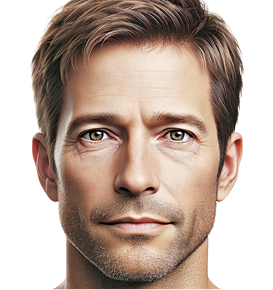
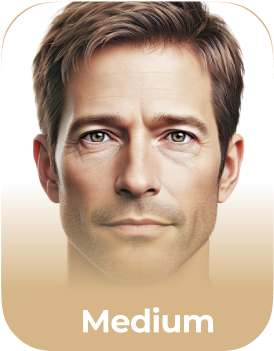
reason screen add

diff --git a/src/Components/Pages/Reason_screen.jsx b/src/Components/Pages/Reason_screen.jsx
@@ -1,0 +1,48 @@
+import React, { useState } from "react";
+import Progress_tracker from "../Common/Progress_tracker";
+import { Link } from "react-router-dom";
+import ten_select_uppr_vector from "../../assets/Images/svg/ten_select_uppr_vector.svg"
+import age_screen_vector_down from "../../assets/Images/svg/ten_select_bottom_vector.svg"
+import { Reason_screen_data } from "../Common/Helper";
+
+const Reason_screen = () => {
+  const [activeIndex, setActiveIndex] = useState(null); // Track selected item
+
+  const handleClick = (index) => {
+    setActiveIndex(index); // Set the active index
+
+  };
+
+  return (
+    <div className="px-[20px] md:px-[50px]">
+      <div className="xl:h-[calc(100vh-71px)] overflow-hidden pb-10">
+        <img className="absolute  top-0 left-0 " src={ten_select_uppr_vector} alt="ten_select_uppr_vector" />
+        <img className="absolute right-0 bottom-0" src={age_screen_vector_down} alt="age_screen_vector_down" />
+        <div className="sm:max-w-[343px] text-center mx-auto flex flex-col  items-center   ">
+          <Progress_tracker step={3} />
+          <h1 className="fs_26 leading-[1.19] text-center lg:px-10 capitalize font-extrabold my-10">
+            What are the reasons you want to tan right now?
+          </h1>
+          <p className="fs_18 text-[#B8B6B6] mb-[30px]">deep down i want to… Choose all that apply</p>
+          <div className="flex flex-col gap-[19px] " >
+            {Reason_screen_data.map((item, index) => {
+              return (
+                <div key={item.id} className="shadow-[0px_8px_16px_rgba(47,60,51,0.05)] rounded-[26px]" onClick={() => handleClick(index)}
+                >
+                  <Link to={""}>
+                    <div className={`max-w-[343px] px-[36px]  flex items-center justify-center bg-white h-[72px] ${activeIndex === index ? "shadow-[0_0_0_4px_rgba(47,60,51,0.05)]  border border-[#D6B588]" : "border border-transparent"
+                      } shadow-[0_8px_16px_rgba(47, 60, 51, 0.05)]   rounded-[26px]`}>
+                      <p className="fs_14 text-[#2F3C33] font-semibold">{item.text}</p>
+                    </div>
+                  </Link>
+                </div>
+              )
+            })}
+          </div>
+        </div>
+      </div>
+    </div>
+  );
+};
+
+export default Reason_screen;

diff --git a/src/Components/Pages/Skin_selection_screen.jsx b/src/Components/Pages/Skin_selection_screen.jsx
@@ -1,6 +1,6 @@
 import React, { useState } from "react";
 import Progress_tracker from "../Common/Progress_tracker";
-import { AgeScreenData } from "../Common/Helper";
+import { Skintone_data } from "../Common/Helper";
 import { Link } from "react-router-dom";
 
 const Age_screen = () => {
@@ -13,23 +13,26 @@ const Age_screen = () => {
   return (
     <div className="px-[20px] md:px-[50px]">
 
-      <div className="sm:w-[600px] xl:h-[calc(100vh-71px)] mx-auto flex flex-col  items-center 2xl:justify-center">
-        <Progress_tracker step={0.5} />
-        <h1 className="fs_26 leading-[1.19] font-extrabold my-10">
+      <div className="sm:max-w-[800px] xl:h-[calc(100vh-71px)] mx-auto flex flex-col  items-center 2xl:justify-center">
+        <Progress_tracker step={1.5} />
+        <h1 className="fs_26 leading-[1.19] capitalize font-extrabold my-10">
           What’s your skin tone?
         </h1>
-        <div className="flex pb-16 z-3  flex-wrap justify-center gap-[14px]">
-          {AgeScreenData.map((img, index) => (
-            <div
-              key={img.id} // Ensure key is unique
-              onClick={() => handleClick(index)}
-              className={` sm:h-[155px]  w-[38%] sm:w-[134px] shadow-[0_4px_4px_0_#00000040] rounded-[24px] cursor-pointer transition-all ${activeIndex === index ? "border border-[#D6B588]" : "border border-transparent"
-                }`}
-            >
-              <Link to="">
-                <img className="w-full" src={img.src} alt={img.alt} />
-              </Link>
-            </div>
+        <div className="flex pb-16 z-3  flex-wrap justify-center gap-[18px]">
+          {Skintone_data.map((img, index) => (
+            <Link to={""}>
+              <div
+                key={img.id}
+                onClick={() => handleClick(index)}
+                className={`  shadow-[0_5px_7px_-0.25px_#B0B0B0] gap-[18px]  rounded-[26px] cursor-pointer transition-all ${activeIndex === index ? "border-1 border-[#D6B588] bg-[#D6B588]" : "border border-transparent bg-transparent"
+                  }`}
+
+              >
+                <div className="w-[136.25px] h-[174.14px]">
+                  <img className="block" src={img.src} alt={img.alt} />
+                </div>
+
+              </div></Link>
           ))}
         </div>
       </div>

diff --git a/src/Components/Pages/My_dream_screen.jsx b/src/Components/Pages/My_dream_screen.jsx
@@ -1,0 +1,51 @@
+import React, { useState } from "react";
+import Progress_tracker from "../Common/Progress_tracker";
+import { Link } from "react-router-dom";
+import ten_select_uppr_vector from "../../assets/Images/svg/ten_select_uppr_vector.svg"
+import age_screen_vector_down from "../../assets/Images/svg/ten_select_bottom_vector.svg"
+import { My_dream_data } from "../Common/Helper";
+
+const My_dream_screen = () => {
+  const [activeIndex, setActiveIndex] = useState(null); // Track selected item
+
+  const handleClick = (index) => {
+    setActiveIndex(index); // Set the active index
+
+  };
+
+  return (
+    <div className="px-[20px] md:px-[50px]">
+      <div className="xl:h-[calc(100vh-71px)] overflow-hidden ">
+        <img className="absolute top-0 left-0 " src={ten_select_uppr_vector} alt="ten_select_uppr_vector" />
+        <img className="absolute right-0 bottom-0" src={age_screen_vector_down} alt="age_screen_vector_down" />
+        <div className="sm:max-w-[400px] mx-auto flex flex-col  items-center   ">
+          <Progress_tracker step={2.5} />
+          <h1 className="fs_26 leading-[1.19] text-center lg:px-10 capitalize font-extrabold my-10">
+            My dreams tan is…
+          </h1>
+          <div className="flex flex-col gap-[19px] " >
+            {My_dream_data.map((item, index) => {
+              return (
+                <div key={item.id} className="shadow-[0px_8px_16px_rgba(47,60,51,0.05)] rounded-[26px]" onClick={() => handleClick(index)}
+                >
+                  <div>
+                    <div className={`max-w-[343px] cursor-pointer flex flex-col !py-[13px] px-[37px] justify-center bg-white h-[96px] ${activeIndex === index ? "shadow-[0_0_0_4px_rgba(47,60,51,0.05)]  border border-[#D6B588]" : "border border-transparent"
+                      } shadow-[0_8px_16px_rgba(47, 60, 51, 0.05)]    rounded-[26px]`}>
+                      <p className="fs_18 font-bold text-[#2F3C33]">{item.heading}</p>
+                      <p className="font-medium fs_14 text-[#B1AFAF]"> {item.text}</p>
+                    </div>
+
+                  </div>
+                </div>
+              )
+            })}
+          </div>
+
+
+        </div>
+      </div>
+    </div>
+  );
+};
+
+export default My_dream_screen;

diff --git a/src/Components/Pages/Tan_select_screen.jsx b/src/Components/Pages/Tan_select_screen.jsx
@@ -1,0 +1,47 @@
+import React, { useState } from "react";
+import Progress_tracker from "../Common/Progress_tracker";
+import { Link } from "react-router-dom";
+import ten_select_uppr_vector from "../../assets/Images/svg/ten_select_uppr_vector.svg"
+import age_screen_vector_down from "../../assets/Images/svg/ten_select_bottom_vector.svg"
+import { Tone_select_data } from "../Common/Helper";
+
+const Age_screen = () => {
+  const [activeIndex, setActiveIndex] = useState(null); // Track selected item
+
+  const handleClick = (index) => {
+    setActiveIndex(index); // Set the active index
+
+  };
+
+  return (
+    <div className="px-[20px] md:px-[50px]">
+      <div className="xl:h-[calc(100vh-71px)] overflow-hidden ">
+        <img className="absolute  top-0 left-0 " src={ten_select_uppr_vector} alt="ten_select_uppr_vector" />
+        <img className="absolute right-0 bottom-0" src={age_screen_vector_down} alt="age_screen_vector_down" />
+        <div className="sm:max-w-[400px] mx-auto flex flex-col  items-center   ">
+          <Progress_tracker step={2} />
+          <h1 className="fs_26 leading-[1.19] text-center lg:px-10 capitalize font-extrabold my-10">
+            Do you like looking tan?
+          </h1>
+          <div className="flex flex-col gap-[19px] " >
+            {Tone_select_data.map((item, index) => {
+              return (
+                <div key={item.id} className="shadow-[0px_8px_16px_rgba(47,60,51,0.05)] rounded-[26px]" onClick={() => handleClick(index)}
+                >
+                  <Link to={""}>
+                    <div className={`max-w-[343px] px-[36px]  flex items-center justify-center bg-white h-[72px] ${activeIndex === index ? "shadow-[0_0_0_4px_rgba(47,60,51,0.05)]  border border-[#D6B588]" : "border border-transparent"
+                      } shadow-[0_8px_16px_rgba(47, 60, 51, 0.05)]   rounded-[26px]`}>
+                      <p className="fs_14 text-[#2F3C33] font-semibold">{item.text}</p>
+                    </div>
+                  </Link>
+                </div>
+              )
+            })}
+          </div>
+        </div>
+      </div>
+    </div>
+  );
+};
+
+export default Age_screen;

diff --git a/src/Components/Common/Helper.jsx b/src/Components/Common/Helper.jsx
@@ -2,9 +2,36 @@ import img1 from "../../assets/Images/Png/age_selection_img1.png"
 import img2 from "../../assets/Images/Png/age_selection_img2.png"
 import img3 from "../../assets/Images/Png/age_selection_img3.png"
 import img4 from "../../assets/Images/Png/age_selection_img4.png"
+import skin_tone_img1 from "../../assets/Images/Png/skin_tone_img1.png"
+import skin_tone_img2 from "../../assets/Images/Png/skin_tone_img2.png"
+import skin_tone_img3 from "../../assets/Images/Png/skin_tone_img3.png"
+import skin_tone_img4 from "../../assets/Images/Png/skin_tone_img4.png"
 export const AgeScreenData = [
   { id: 1, src: img1, alt: "Person 1" },
   { id: 2, src: img2, alt: "Person 2" },
   { id: 3, src: img3, alt: "Person 3" },
   { id: 4, src: img4, alt: "Person 4" },
+]
+export const Skintone_data = [
+  { id: 1, src: skin_tone_img1, alt: "Person 1" },
+  { id: 2, src: skin_tone_img2, alt: "Person 2" },
+  { id: 3, src: skin_tone_img3, alt: "Person 3" },
+  { id: 4, src: skin_tone_img4, alt: "Person 4" },
+]
+export const Tone_select_data = [
+  { id: 1, text: "Def no, zero interest" },
+  { id: 2, text: "Sometimes" },
+  { id: 3, text: "Yes, I like a warm sunkissed tan" },
+  { id: 4, text: "Absolutely, the tanner the better!" }
+]
+export const My_dream_data = [
+  { id: 1, heading: "Subtle", text: "Nothing dramatic, just adding some light color & life back to my skin" },
+  { id: 2, heading: "Sun kissed", text: "Look like i spend my weekends outside instead of watching Netflix" },
+  { id: 3, heading: "Bronze tan", text: "As deep tan as i can get, without looking fake AF" }
+]
+export const Reason_screen_data = [
+  { id: 1, text: "A tan makes me look more attractive" },
+  { id: 2, text: "I want to look younger" },
+  { id: 3, text: "I need to prepare for holidays" },
+  { id: 4, text: "Workout, a tan makes me look more defined" }
 ]

diff --git a/src/Routes/Routes_file.jsx b/src/Routes/Routes_file.jsx
@@ -6,6 +6,9 @@ import Aware_screen from '../Components/Pages/Aware_screen';
 import Age_screen from '../Components/Pages/Age_screen';
 import Overall_screen from '../Components//Pages/Ovelall_screen';
 import Skin_selection_screen from '../Components//Pages/Skin_selection_screen';
+import Tan_select_screen from '../Components//Pages/Tan_select_screen';
+import My_dream_screen from '../Components//Pages/My_dream_screen';
+import Reason_screen from '../Components//Pages/Reason_screen';
 
 
 
@@ -19,6 +22,9 @@ const Routes_file = () => {
         <Route path='/Age_screen' element={<Age_screen />} />
         <Route path='/Overall_screen' element={<Overall_screen />} />
         <Route path='/Skin_selection_screen' element={<Skin_selection_screen />} />
+        <Route path='/Tan_select_screen' element={<Tan_select_screen />} />
+        <Route path='/My_dream_screen' element={<My_dream_screen />} />
+        <Route path='/Reason_screen' element={<Reason_screen />} />
       </Route>
     </Routes>
   )

diff --git a/src/Components/Layout.jsx b/src/Components/Layout.jsx
@@ -4,11 +4,11 @@ import Topbar from './Common/Topbar'
 
 const Layout = () => {
   return (
-    <div className='h-screen body_bg overflow-y-scroll overflow-x-hidden  '>
+    <div className='h-screen body_bg overflow-y-scroll !overflow-x-hidden  '>
       <div className='px-[20px] md:px-[50px]'>
         <Topbar />
       </div>
-      <div className=''>
+      <div>
         <Outlet />
       </div>
     </div>

diff --git a/src/App.css b/src/App.css
@@ -8,7 +8,8 @@
 }
 
 .body_bg {
-  background: linear-gradient(170.41deg, #FFFFFF 57.29%, #FFF4E5 86.03%);
+  /* background: #FFFAF3, linear-gradient(170.41deg, #FFFFFF 57.29%, #FFF4E5 86.03%); */
+  background-color: #FFFAF3;
 }
 
 .progress_bg_gradient {
